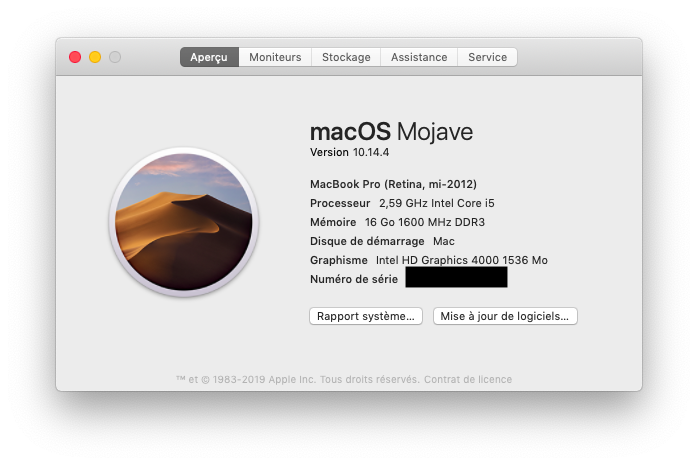
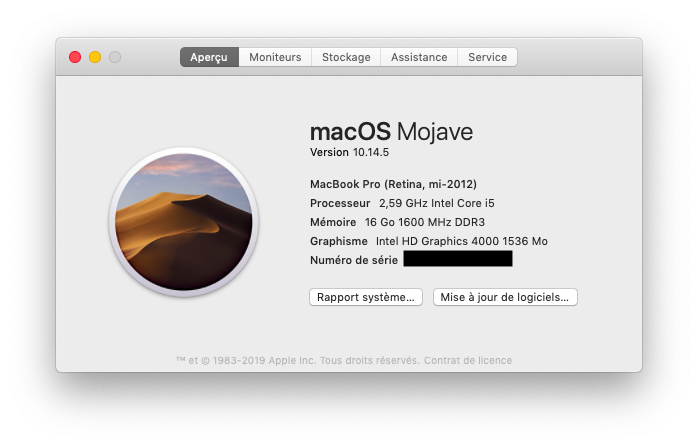
updated to 10.14.5

diff --git a/README.md b/README.md
@@ -6,7 +6,7 @@ I have already a [Hackintosh](https://github.com/kinoute/Hack-Z370-HD3P-i5-8400)
 
 ## Laptop Specs
 
-* macOS Mojave 10.4.4
+* macOS Mojave 10.4.5
 * Intel Core i5-3320M 2.6Ghz Turbo 3.3Ghz (2 cores, 4 threads)
 * Crucial Ballistix Sport 16GB DDR3-RAM @ 1600 Mhz (BLS8G3N169ES4.16FE)
 * Intel HD Graphics 4000 1536 Mb
